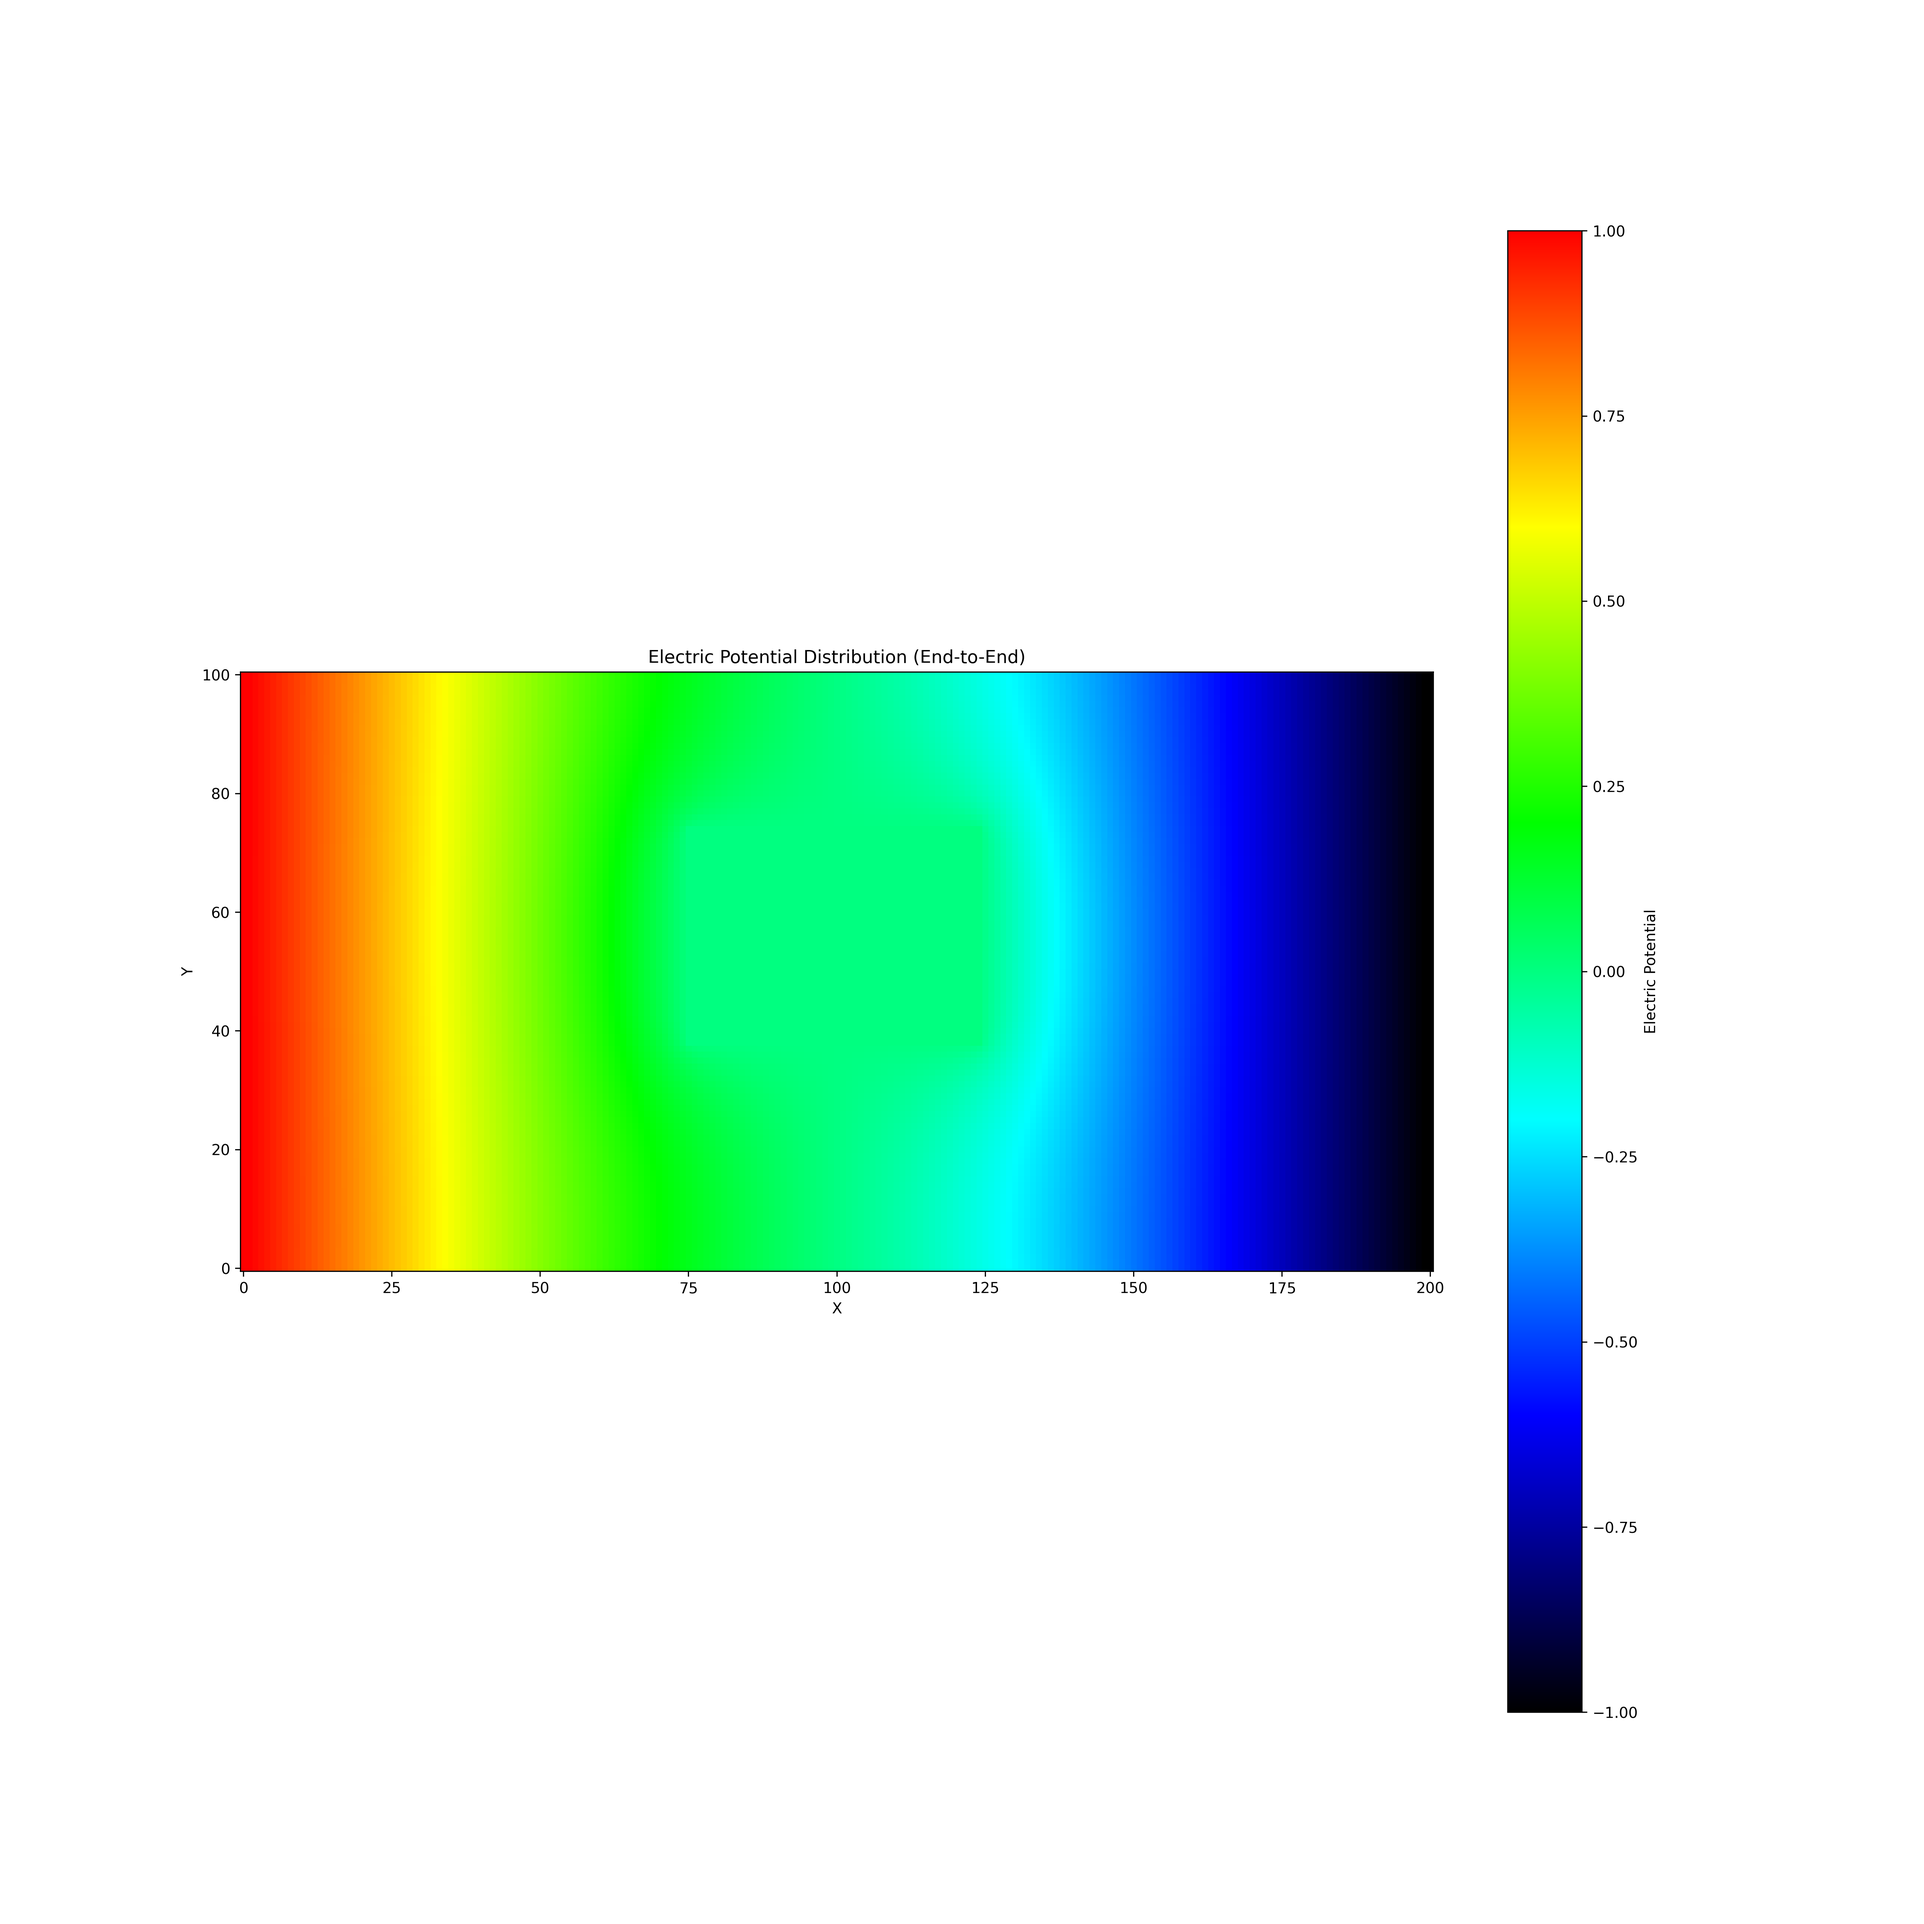
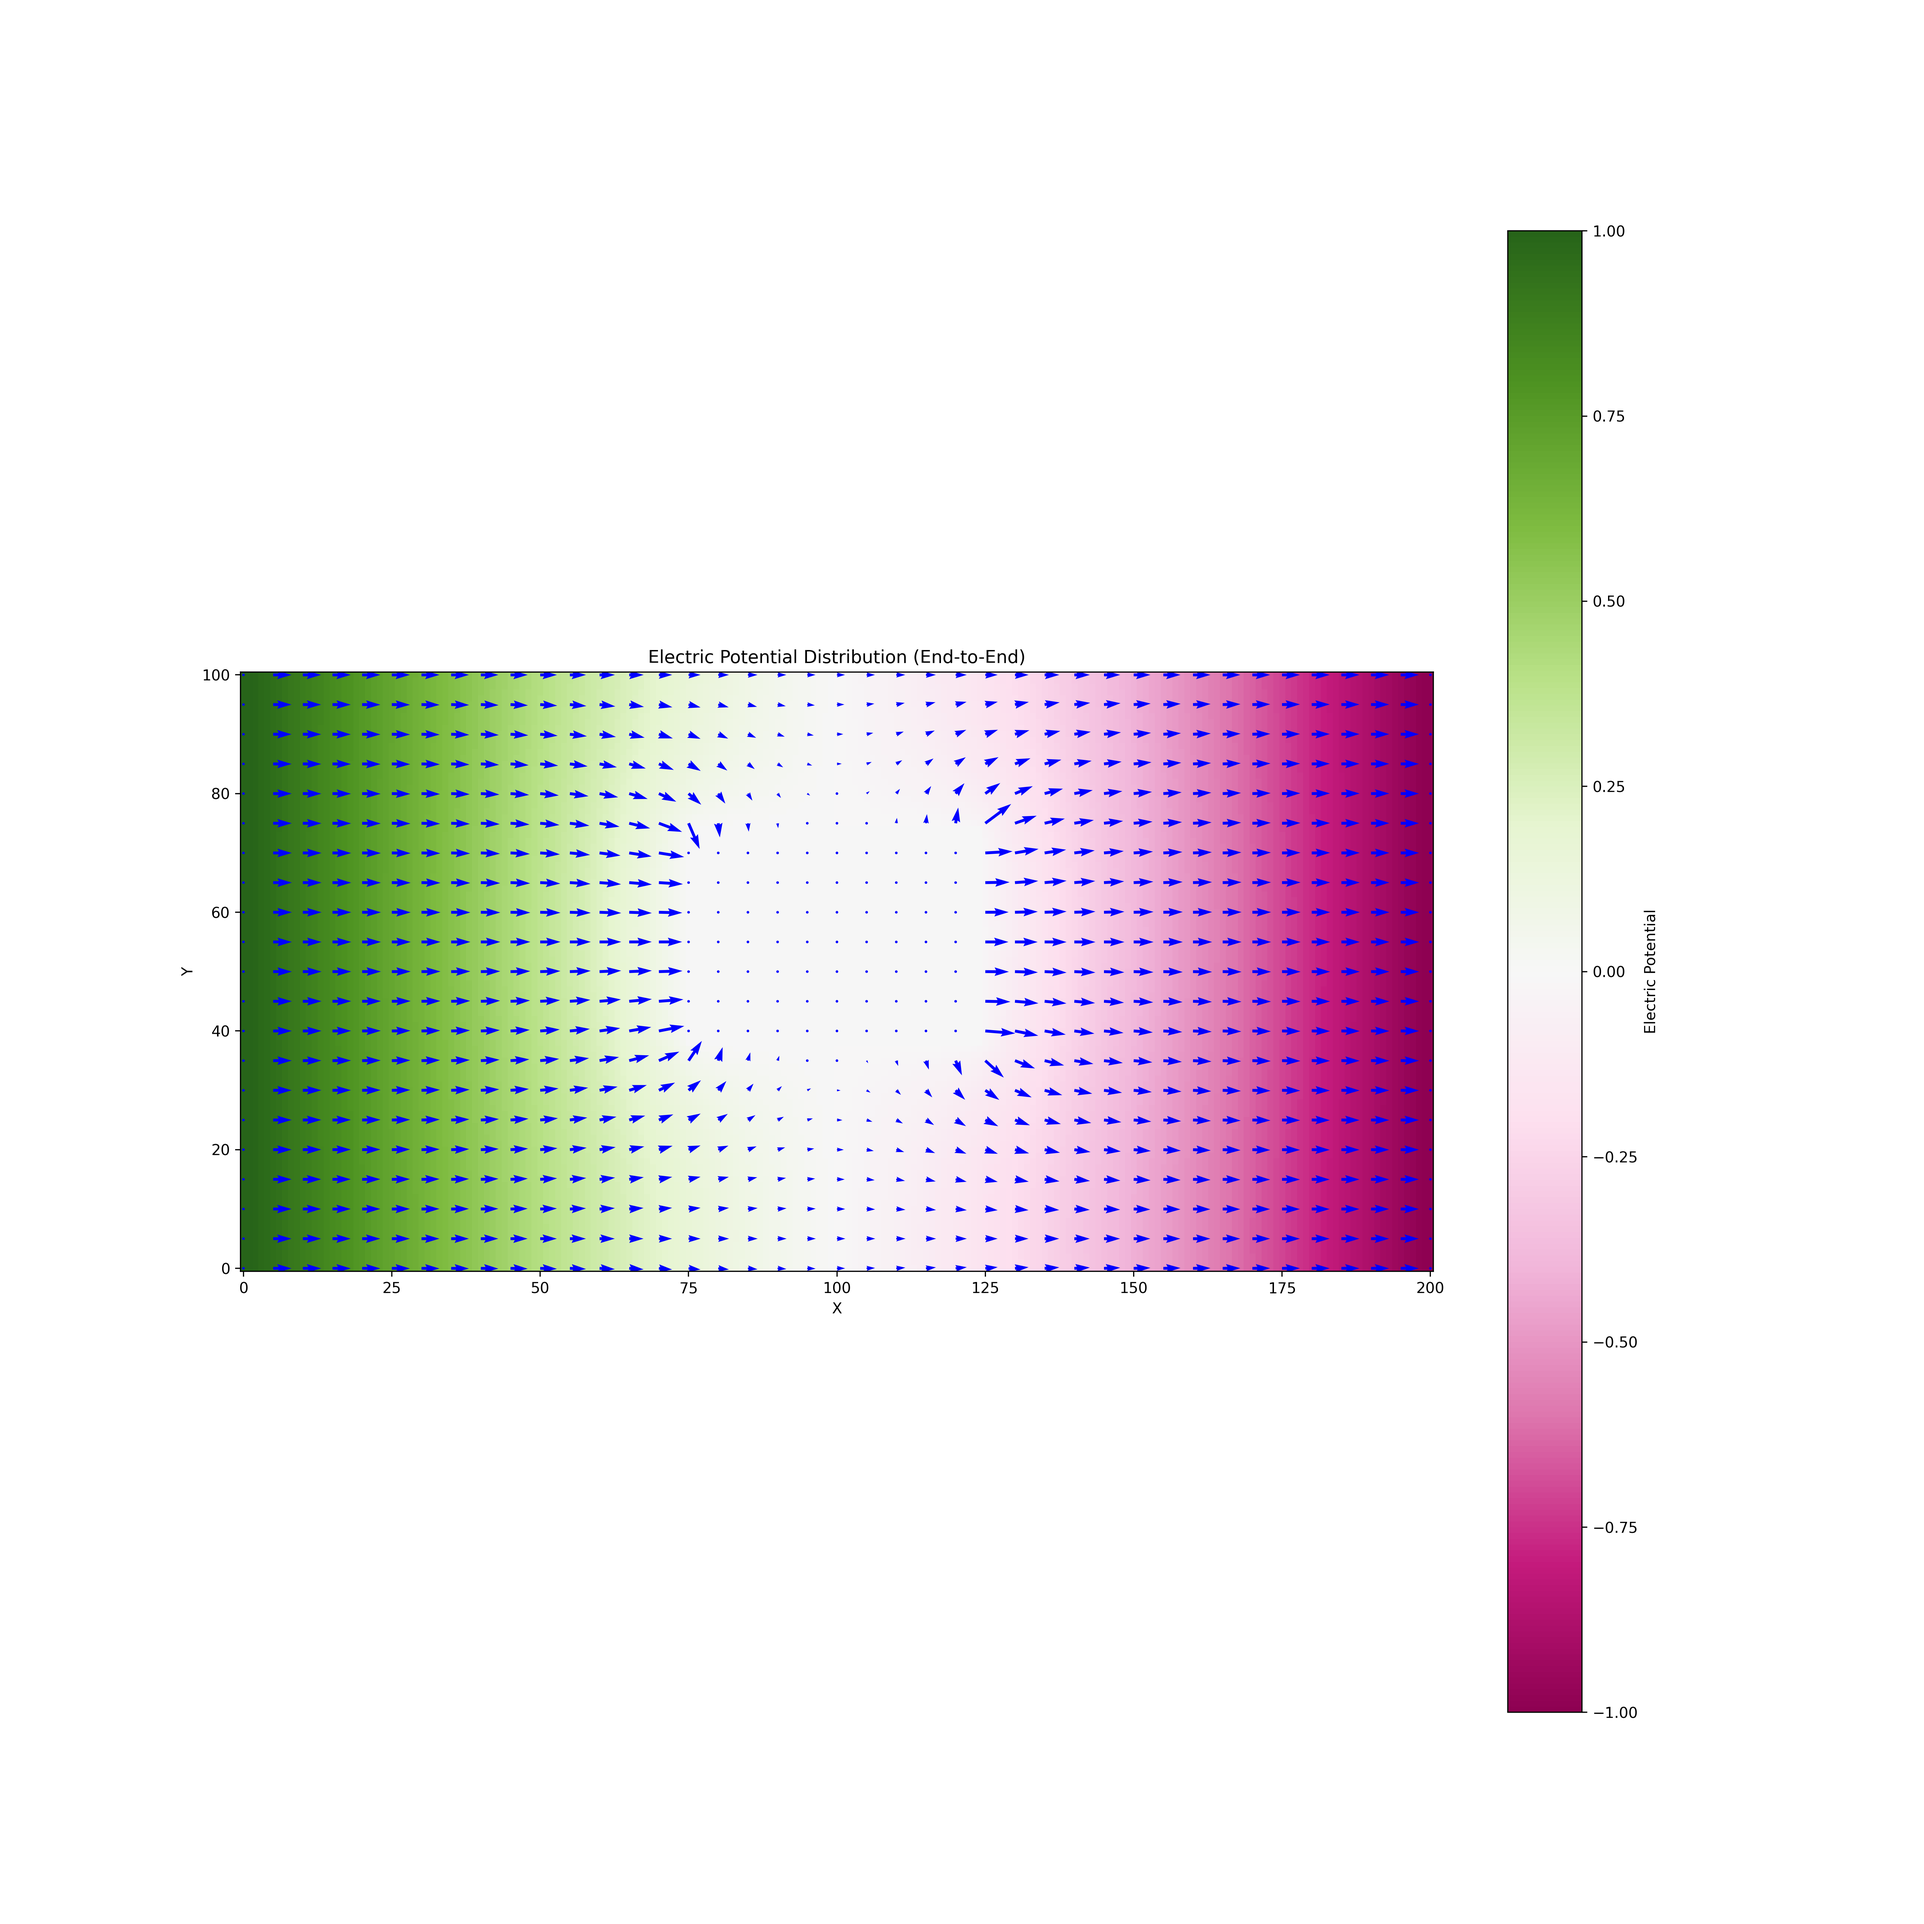
Circle is ready

Changed region(s): [[0.125, 0.3438, 0.75, 0.6875], [0.7812, 0.0938, 0.8438, 0.9062]]

diff --git a/Numerical Methods/utils.py b/Numerical Methods/utils.py
@@ -71,7 +71,10 @@ def laplace_ode_solver(size:'tuple[int,int]|np.ndarray[int,int]',fixedCondtions:
 
 def findUandV(grid:np.ndarray[np.ndarray[np.float64]]):
     E_field = np.zeros([*grid.shape,2],np.float64)
-    
+    E_field[:,:-1,0] = grid[:,1:] - grid[:,:-1]
+    E_field[:-1,:,1] = grid[1:,:] - grid[:-1,:]
+    return E_field
+
 
 
 
@@ -108,32 +111,20 @@ def BoxinBox(Grid:np.ndarray,r=1):
 
 # Example 1: End-to-End Line
 ys, xs, potential = laplace_ode_solver((200, 100), endToEndLine_, endToEndLine_)
-Xs, Ys = np.meshgrid(xs, ys)
+Xs, Ys = np.meshgrid(xs[::5], ys[::5])
 u, v = np.gradient(potential, xs[1]-xs[0], ys[1]-ys[0])  # Correct gradient calculation
 
+graph=-findUandV(potential)[::5,::5]*25
 
+# print(graph[:,:,0], graph[:,:,1],sep='\r\n===\r\n===\r\n')
 plt.figure(figsize=(18, 18),dpi=320)  # Adjust figure size for better visualization
-plt.imshow(potential, cmap=rollerCoaster, origin='lower')  # Set origin for consistency
-# plt.quiver(Xs, Ys, u, v, color='w', scale=10, scale_units='xy') # Adjust scale and color
+plt.imshow(potential, cmap='PiYG', origin='lower')  # Set origin for consistency
 plt.colorbar(label='Electric Potential')
+plt.quiver(Xs, Ys, graph[:,:,0], graph[:,:,1], color='b', scale=0.1, scale_units='xy') # Adjust scale and color
+
 plt.title('Electric Potential Distribution (End-to-End)')
 plt.xlabel('X')
 plt.ylabel('Y')
 plt.savefig(fname='BoxInBox.png')
 plt.show()
 print(potential)
-
-# Example 2: Box in Box
-ys, xs, potential = laplace_ode_solver((200, 200), doNothing, BoxinBox)
-Xs, Ys = np.meshgrid(xs, ys)
-u, v = np.gradient(potential*400, xs[1]-xs[0], ys[1]-ys[0])  # Correct gradient calculation
-
-plt.figure(figsize=(18, 18),dpi=320)  # Adjust figure size
-plt.imshow(potential, cmap='viridis')  # Set origin
-# plt.quiver(Xs, Ys, u, v, scale=20, scale_units='xy',alpha=0.5) # Adjust scale and color
-plt.colorbar(label='Electric Potential')
-plt.title('Electric Potential Distribution (Box in Box)')
-plt.xlabel('X')
-plt.ylabel('Y')
-plt.savefig(fname='BoxInBox.png')
-plt.show()

diff --git a/Numerical Methods/geometry.py b/Numerical Methods/geometry.py
@@ -2,24 +2,42 @@ import matplotlib.artist,matplotlib.patches,matplotlib.path,matplotlib.pyplot as
 import numpy as np
 
 
-def circleQuadrant(cx,cy,r,dx,dy,val=1.0,fill=False,clear=False,Grid=None):
+def circle(cx,cy,r,dx,dy,val=1.0,fill=False,clear=False,Grid:'np.ndarray[np.ndarray[np.float64]]'=None):
     # First solve for a qudrant the apply rotations
     operations = [[lambda x,y,z:np.abs(x-y)<z]*2,[lambda x,y,z:x<=y,lambda x,y,z:x>=y]]
-    r1 = np.array([0,r])
-    r2 = np.array([r,0])
-    theta = np.linspace(0,np.pi/4,1000)
-    grid_x, grid_y = np.mgrid[:2*int(r//dx), :2*int(r//dy)]
-    circle_mask = operations[bool(fill)][bool(clear)]((grid_x - cx)**2 + (grid_y - cy)**2 , r**2,1e-9)
 
+    # === Fast Slow pointer ===
+    # r1 = np.array([0,r])
+    # r2 = np.array([r,0])
+    # theta = np.linspace(0,np.pi/4,1000)
+    # =======
+    
+    # if all we want is a  circle
+    x = 2*int(r//dx)+5
+    y=2*int(r//dy)+5
+    
+    # if we inplace into a grid
+    if Grid is not None:
+        y,x = Grid.shape
+        print(x,y)
+
+    grid_x, grid_y = np.mgrid[:x, :y]
+    circle_mask = operations[bool(fill)][bool(clear)]((grid_x-x/2)**2 + (grid_y-y/2)**2 , r**2,1e-9)
     # Apply anti-aliasing using Gaussian blur
     # blurred_circle = gaussian_filter(circle_mask.astype(float), sigma=antialias_sigma)
 
     # Threshold to create a binary image (0 or 1)
-    pixelated_circle = np.where(circle_mask > 0.5, 1, 0)
+    pixelated_circle = np.where(circle_mask > 0.5, 0, 1)
+
+    # mul mask
+    if Grid is not  None:
+        Grid = Grid*pixelated_circle
     
     return pixelated_circle
-
-def implant_circle(cx,cy,r,dx,dy,val=1.0,fill=False,clear=False,Grid:'np.ndarray[np.ndarray[np.float64]]'=None):
-    circle = circleQuadrant(cx,cy,r,dx,dy,val,fill,clear)
-    index = np.array([0,0])
-    Grid[index]= circle
+grid = np.zeros((200,200))
+grid[:,:]=1
+circ=circle(50,50,50,1,1,fill=True,clear=True,Grid=grid)
+    
+plt.imshow(circ, cmap='gray')
+plt.title('Pixelated Circle with Anti-aliasing')
+plt.show()

diff --git a/Numerical Methods/Introduction.md b/Numerical Methods/Introduction.md
@@ -1,0 +1,9 @@
+# Introduction
+
+## Problem
+
+To solve electro-static boundary Problems which result in ODES. These Odes can be tedious to solve and may even be impossible to solve analytically. This leads us to methods that can approximate such as numerical methods.
+
+## Aims
+
+To 
